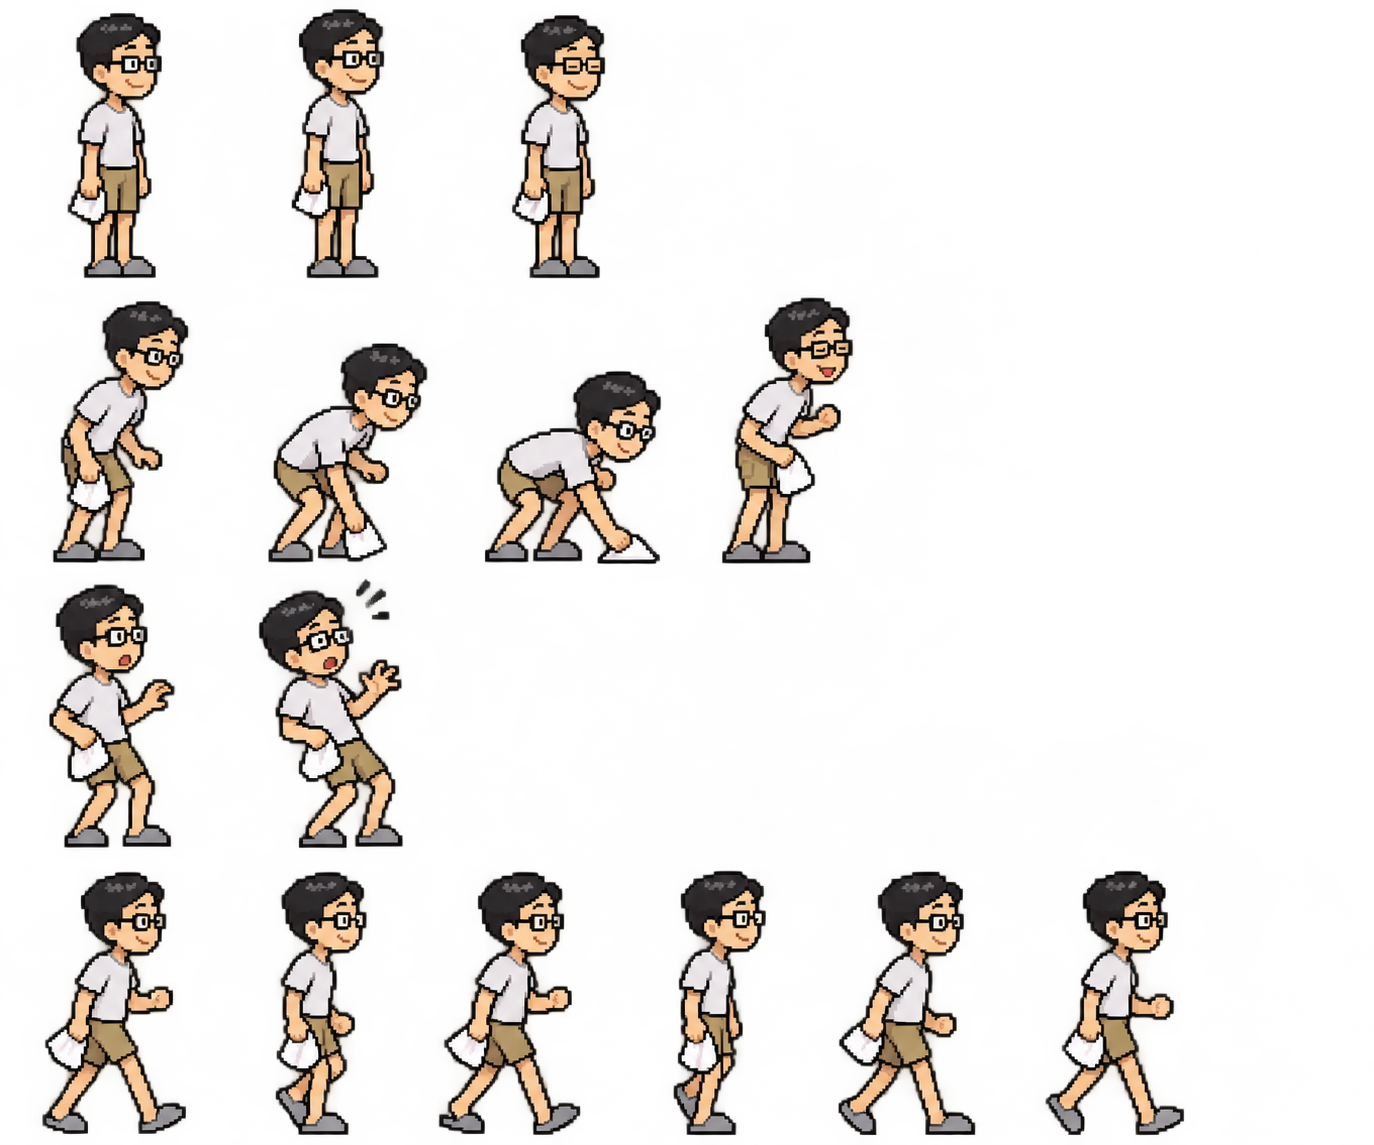
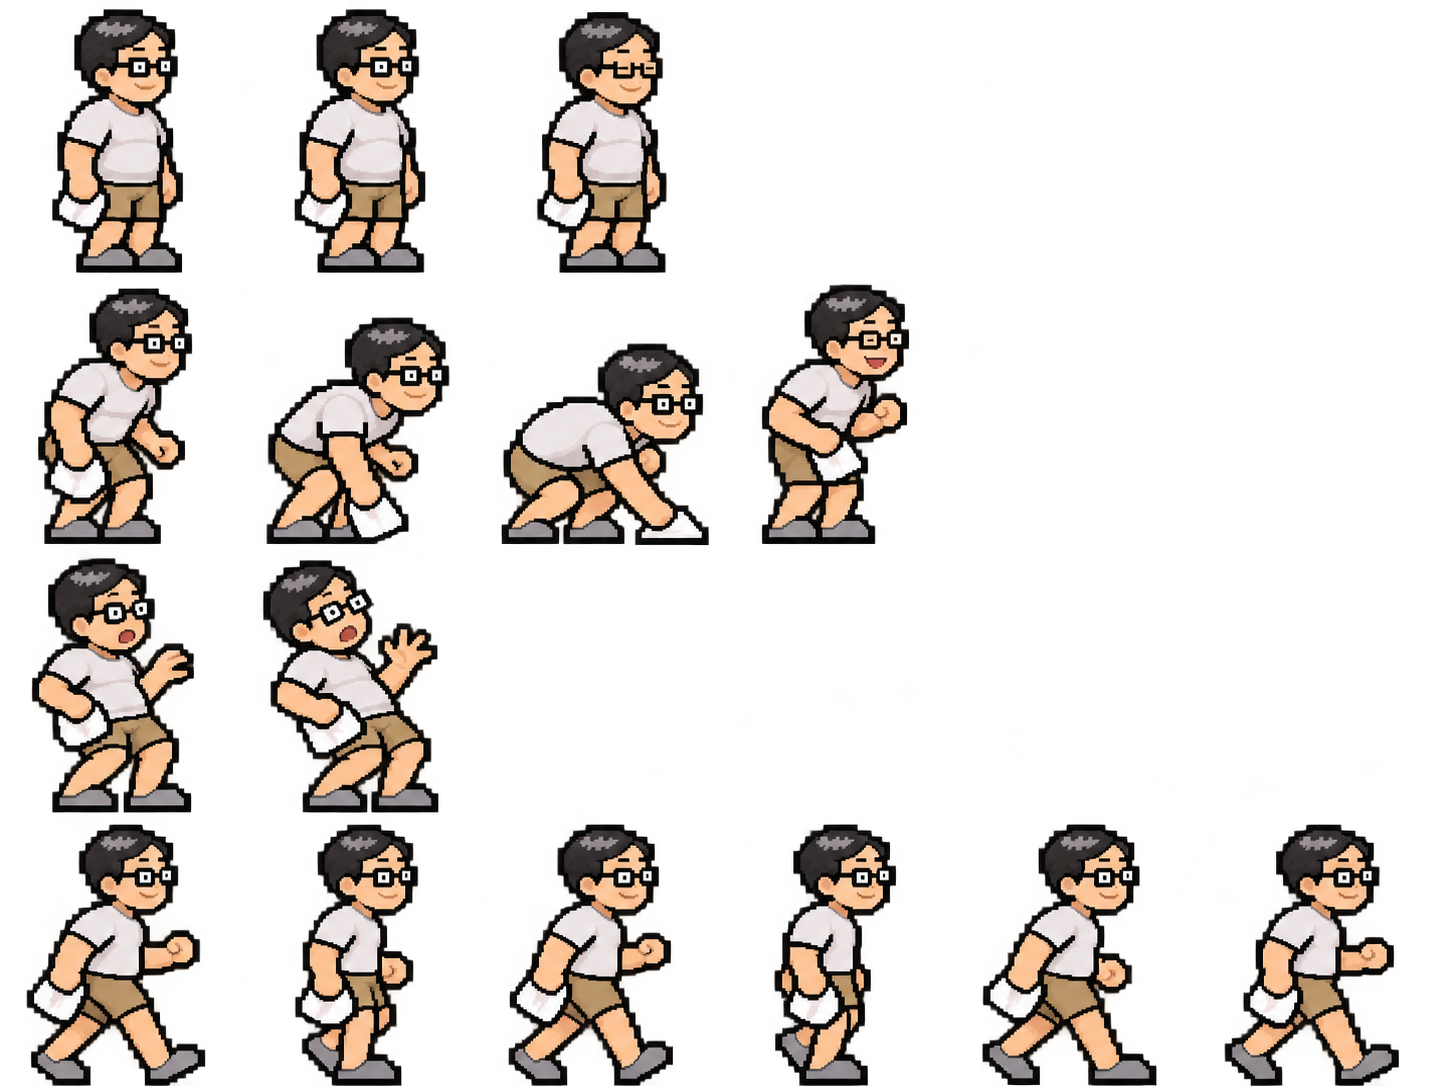
Save code to carry progress to another device; sturdier neighbour
- Settings shows a save code (MBS-XXXX-..., Crockford base32 with a
  15-bit checksum) holding coins, upgrades, totals and each best run's
  win / gap / time. Copy or share it, paste it on another phone or
  browser, tap twice to load. No server.
- The neighbour's sheet is redrawn with Codex from the first one:
  broader shoulders, thicker arms and legs (v1 kept in art/codex).

diff --git a/index.html b/index.html
@@ -133,6 +133,14 @@ button{font:inherit;color:inherit}
 .stage .meta{display:block;margin-top:4px;font:600 11px/1.3 var(--f-pixel);color:var(--surf)}
 .items canvas{width:36px;height:36px;image-rendering:crisp-edges;image-rendering:pixelated}
 .credits{margin:14px 0 0;color:var(--sand-dim);font-size:12.5px;line-height:1.5}
+.save-code{padding:10px 12px;border-radius:10px;border:2px dashed var(--line);background:var(--night);color:var(--plumeria);font:700 17px/1.5 ui-monospace,Menlo,Consolas,monospace;letter-spacing:.02em;overflow-wrap:anywhere;-webkit-user-select:all;user-select:all}
+.field{display:block;margin:16px 0 6px;color:var(--sand);font-size:15px}
+.code-in{width:100%;min-height:46px;padding:8px 12px;border-radius:10px;border:2px solid var(--line);background:var(--ink);color:var(--sand);font:700 16px/1.2 ui-monospace,Menlo,Consolas,monospace;text-transform:uppercase}
+.code-in:focus{outline:none;border-color:var(--plumeria)}
+.code-in::placeholder{color:var(--sand-dim);text-transform:none}
+.code-msg{margin:8px 0 0;min-height:1.4em;color:var(--sand);font-size:14px;line-height:1.45}
+.code-msg:empty{min-height:0;margin:0}
+.code-msg.bad{color:var(--hibiscus)}
 .heroes{display:grid;grid-template-columns:repeat(3,minmax(0,1fr));gap:8px;margin:14px 0 8px}
 .hero{display:grid;justify-items:center;align-content:start;gap:3px;padding:10px 8px 12px;border-radius:12px;border:2px solid var(--line);background:var(--night);text-align:center;cursor:pointer}
 .hero[aria-pressed="true"]{border-color:var(--plumeria);box-shadow:inset 0 0 0 2px var(--plumeria)}
@@ -1939,6 +1947,82 @@ function migrateRecords() {
   store.set('mbs.records', { backyard: old });
 }
 
+// ---------- save code: wallet, upgrades, best runs and totals as one short text, to carry progress to another phone or
+// browser without a server (Settings). Crockford base32: no I L O U, any case, dashes / spaces / text around it ignored.
+// Bits: version 3 · coins · upgrade levels (fixed widths) · totals · per stage × hero: has-record, win, 틈, seconds.
+// A record's kills and level are left out to keep the code short. The lists below are frozen: add a new stage, hero
+// or upgrade at the END of its list (each list is stored with its length, so old codes keep working).
+const SAVE_UP = [['hp', 3], ['might', 3], ['armor', 2], ['regen', 2], ['speed', 2], ['magnet', 2], ['cdr', 2], ['growth', 2],
+  ['greed', 2], ['revive', 1], ['reroll', 2], ['skip', 2], ['banish', 2]];
+const SAVE_STAGES = ['backyard', 'laundry', 'kitchen'], SAVE_HEROES = ['girl', 'alpaca', 'gecko'];
+const B32 = '0123456789ABCDEFGHJKMNPQRSTVWXYZ', SAVE_CHECK = 15;
+// a fixed bit stream XORed over the payload so an empty save doesn't read 0000…
+function saveMask(n) { const m = []; let x = 0x6d627321; for (let i = 0; i < n; i++) { x = (Math.imul(x, 1103515245) + 12345) >>> 0; m.push(x >>> 31); } return m; }
+function saveSum(bits) { let h = 0x811c9dc5; for (const b of bits) h = Math.imul(h ^ (b + 7), 16777619) >>> 0; return (h ^ (h >>> 16)) & ((1 << SAVE_CHECK) - 1); }
+function saveCode() {
+  const w = [], put = (v, n) => { for (let i = n - 1; i >= 0; i--) w.push(Math.floor(v / 2 ** i) % 2); };
+  const num = v => { v = Math.max(0, Math.floor(v || 0)); do { const c = v % 16; v = Math.floor(v / 16); put(c, 4); put(v ? 1 : 0, 1); } while (v); };
+  const m = loadMeta(), rec = store.get('mbs.records') || {}, tot = store.get('mbs.stats') || {};
+  put(1, 3);
+  num(m.coins);
+  put(SAVE_UP.length, 5);
+  for (const [id, n] of SAVE_UP) put(Math.min(m.up[id] || 0, 2 ** n - 1), n);
+  num(tot.runs); num(tot.kills); num(tot.wins); num(tot.secs);
+  put(SAVE_STAGES.length, 4); put(SAVE_HEROES.length, 4);
+  for (const st of SAVE_STAGES) for (const h of SAVE_HEROES) {
+    const r = rec[st]?.[h];
+    put(r ? 1 : 0, 1);
+    if (r) { put(r.win ? 1 : 0, 1); put(Math.min(r.gap || 0, 7), 3); put(Math.min(Math.floor(r.t), 1023), 10); }
+  }
+  while (w.length % 5) w.push(0);
+  const mask = saveMask(w.length), sum = saveSum(w), all = w.map((b, i) => b ^ mask[i]);
+  for (let i = SAVE_CHECK - 1; i >= 0; i--) all.push((sum >> i) & 1);   // checksum of the plain payload, unmasked
+  let s = '';
+  for (let i = 0; i < all.length; i += 5) s += B32[all[i] * 16 + all[i + 1] * 8 + all[i + 2] * 4 + all[i + 3] * 2 + all[i + 4]];
+  return 'MBS-' + s.match(/.{1,4}/g).join('-');
+}
+// returns { meta, records, stats } or null when the text isn't a valid code
+function readSaveCode(text) {
+  const hit = String(text || '').toUpperCase().match(/MBS[\s-]*([0-9A-Z][0-9A-Z\s-]*)/);
+  const raw = (hit ? hit[1] : String(text || '').toUpperCase()).replace(/[\s-]/g, '').replace(/O/g, '0').replace(/[IL]/g, '1');
+  if (raw.length < 8 || /[^0-9A-Z]/.test(raw)) return null;
+  const all = [];
+  for (const ch of raw) { const v = B32.indexOf(ch); if (v < 0) return null; for (let i = 4; i >= 0; i--) all.push((v >> i) & 1); }
+  const n = all.length - SAVE_CHECK, mask = saveMask(n), bits = all.slice(0, n).map((b, i) => b ^ mask[i]);
+  let sum = 0; for (const b of all.slice(n)) sum = sum * 2 + b;
+  if (saveSum(bits) !== sum) return null;
+  let at = 0;
+  const get = k => { if (at + k > n) throw 0; let v = 0; for (let i = 0; i < k; i++) v = v * 2 + bits[at++]; return v; };
+  const num = () => { let v = 0, p = 1, more; do { v += get(4) * p; p *= 16; more = get(1); } while (more && p < 2 ** 40); return v; };
+  try {
+    if (get(3) !== 1) return null;
+    const meta = { coins: num(), up: {}, earned: 0 };
+    const nUp = get(5);
+    for (let i = 0; i < nUp; i++) {
+      const [id, k] = SAVE_UP[i] || [null, 3], lv = get(k);
+      if (id && UPGRADES[id] && lv) meta.up[id] = Math.min(lv, UPGRADES[id].max);
+    }
+    const stats = { runs: num(), kills: num(), wins: num(), secs: num() };
+    const nSt = get(4), nH = get(4), records = {};
+    for (let i = 0; i < nSt; i++) for (let j = 0; j < nH; j++) {
+      if (!get(1)) continue;
+      const r = { win: !!get(1), gap: get(3), t: get(10) }, st = SAVE_STAGES[i], h = SAVE_HEROES[j];
+      if (st && h) (records[st] || (records[st] = {}))[h] = r;
+    }
+    let spent = 0;
+    for (const [id, lv] of Object.entries(meta.up)) for (let i = 0; i < lv; i++) spent += upPrice(id, i);
+    meta.earned = meta.coins + spent;
+    return { meta, records, stats };
+  } catch { return null; }
+}
+function applySave(d) {
+  store.set('mbs.meta', d.meta); store.set('mbs.records', d.records); store.set('mbs.stats', d.stats);
+  try { localStorage.removeItem('mbs.best'); } catch { /* blocked */ }
+  gapSel = Math.min(gapSel, gapOpen());
+  if (!stageOpen(stageSel)) stageSel = 'backyard';
+  remember();
+}
+
 /* =====================================================================
    RENDER
    ===================================================================== */
@@ -2463,7 +2547,7 @@ function showRecords() {
   const stages = Object.entries(STAGES).filter(([, st]) => st.ready).map(([id, st]) => `<h3>${st.name}</h3><ul class="items">${Object.entries(HEROES).map(([h, hd]) => {
     const r = (rec[id] || {})[h];
     return `<li><canvas width="64" height="64" data-preview="${h}" data-still="1"></canvas><span class="n"><b>${hd.name}</b>${r?.win ? ' <span class="tag gold">클리어</span>' : ''}
-      <small>${r ? `${fmtTime(r.t)} 버팀 · 벌레 ${r.kills} · Lv ${r.lvl}${r.gap ? ` · 틈 ${r.gap}` : ''}` : '아직 기록이 없어요'}</small></span><span class="v">${bestText(r)}</span></li>`;
+      <small>${r ? `${fmtTime(r.t)} 버팀${r.kills != null ? ` · 벌레 ${r.kills}` : ''}${r.lvl ? ` · Lv ${r.lvl}` : ''}${r.gap ? ` · 틈 ${r.gap}` : ''}` : '아직 기록이 없어요'}</small></span><span class="v">${bestText(r)}</span></li>`;
   }).join('')}</ul>`).join('');
   openMenu(`<div class="panel"><h2>기록</h2>
     <div class="stats"><div><b>${tot.runs}</b>판</div><div><b>${tot.kills.toLocaleString()}</b>잡은 벌레</div><div><b>${tot.wins}</b>클리어</div></div>
@@ -2522,14 +2606,63 @@ function gapHTML() {
     </div>${lock}</div>`;
 }
 
-let wipeArmed = false;
+let wipeArmed = false, loadArmed = null;
 function showSettings() {
-  wipeArmed = false;
+  wipeArmed = false; loadArmed = null;
   openMenu(`<div class="panel"><h2>설정</h2><p class="sub">소리는 이 기기에만 저장돼요. 아이폰은 무음 모드면 소리가 안 나요.</p>
     ${soundToggleHTML()}
+    <h3>세이브 코드</h3>
+    <p class="sub">동전·강화·기록은 이 기기의 이 브라우저에만 저장돼요. 아래 코드를 다른 폰이나 브라우저에서 불러오면 그대로 이어져요. 카톡으로 보내 두면 백업도 돼요. (아이폰은 사파리에서 「홈 화면에 추가」로 깔아 두면 안 지워져요.)</p>
+    <div class="save-code" id="saveCode">${saveCode()}</div>
+    <div class="row"><button class="btn ghost" type="button" data-act="copyCode" id="copyBtn">코드 복사</button>${navigator.share ? '<button class="btn ghost" type="button" data-act="shareCode">보내기</button>' : ''}</div>
+    <label class="field" for="codeIn">받은 코드 불러오기</label>
+    <input id="codeIn" class="code-in" type="text" inputmode="text" autocomplete="off" autocorrect="off" autocapitalize="characters" spellcheck="false" placeholder="MBS-…">
+    <p class="code-msg" id="codeMsg" aria-live="polite"></p>
+    <div class="row"><button class="btn ghost" type="button" data-act="loadCode" id="loadBtn">불러오기</button></div>
+    <h3>처음부터</h3>
     <div class="row"><button class="btn ghost" type="button" data-act="wipe" id="wipeBtn">기록·동전 지우기</button></div>
     <p class="credits">캐릭터와 카드 그림은 카드 게임 「마노아 벌레 퇴치단」에서 왔고, 새 그림은 PixelLab과 Codex로 그렸어요. 소리는 전부 코드로 만든 칩튠이에요.</p>
     <div class="row"><button class="btn" type="button" data-act="toMain">뒤로</button></div></div>`);
+}
+function copyCode() {
+  const box = $('saveCode'), btn = $('copyBtn'), code = box.textContent;
+  const done = ok => {
+    btn.textContent = ok ? '복사했어요!' : '코드를 길게 눌러 복사해 주세요';
+    if (!ok) getSelection()?.selectAllChildren(box);
+    setTimeout(() => { if (btn.isConnected) btn.textContent = '코드 복사'; }, 1800);
+  };
+  // the artifact frame may block the clipboard API: fall back to selecting the text and execCommand
+  const legacy = () => { try { getSelection().selectAllChildren(box); return document.execCommand('copy'); } catch { return false; } };
+  if (navigator.clipboard?.writeText) navigator.clipboard.writeText(code).then(() => done(true), () => done(legacy()));
+  else done(legacy());
+}
+// first tap reads the code and says what it holds, the second overwrites this device's progress with it
+function loadCode() {
+  const text = $('codeIn').value, msg = $('codeMsg'), btn = $('loadBtn');
+  const d = readSaveCode(text);
+  if (!d) {
+    loadArmed = null; btn.textContent = '불러오기'; btn.classList.remove('warn');
+    msg.className = 'code-msg bad';
+    msg.textContent = text.trim() ? '코드가 맞지 않아요. 빠지거나 바뀐 글자가 없는지 봐 주세요.' : '받은 코드를 위 칸에 붙여 넣어 주세요.';
+    return;
+  }
+  const key = JSON.stringify(d);
+  if (loadArmed !== key) {
+    if (readSaveCode(saveCode()) && JSON.stringify(readSaveCode(saveCode())) === key) {
+      msg.className = 'code-msg'; msg.textContent = '이 기기와 똑같은 진행이에요. 불러올 게 없어요.'; return;
+    }
+    loadArmed = key;
+    const lv = Object.values(d.meta.up).reduce((a, b) => a + b, 0);
+    const recs = Object.values(d.records).reduce((a, st) => a + Object.keys(st).length, 0);
+    const wins = Object.values(d.records).reduce((a, st) => a + Object.values(st).filter(r => r.win).length, 0);
+    msg.className = 'code-msg';
+    msg.innerHTML = `${COIN}${d.meta.coins.toLocaleString()} · 강화 ${lv}칸 · 기록 ${recs}개${wins ? ` (클리어 ${wins})` : ''} · ${d.stats.runs}판<br>이 기기의 지금 진행은 지워지고 이걸로 바뀌어요.`;
+    btn.textContent = '한 번 더 누르면 불러와요'; btn.classList.add('warn');
+    return;
+  }
+  applySave(d);
+  showSettings();
+  banner('불러왔어요!', '이어서 하면 돼요');
 }
 function heroInfo(id) {
   const h = HEROES[id];
@@ -2610,7 +2743,9 @@ function act(name, data) {
       try { localStorage.removeItem('mbs.best'); } catch { /* blocked */ }
       showSettings(); banner('기록을 지웠어요');
     }
-  }
+  } else if (name === 'copyCode') copyCode();
+  else if (name === 'shareCode') navigator.share?.({ title: '마노아 벌레 서바이버 세이브 코드', text: `마노아 벌레 서바이버 세이브 코드\n${saveCode()}` }).catch(() => {});
+  else if (name === 'loadCode') loadCode();
   else if (name === 'pick') {
     const c = choices[+data.i];
     if (banishing) {
@@ -2683,8 +2818,13 @@ function bindInput() {
     const b = e.target.closest('[data-act]');
     if (b && !b.disabled) act(b.dataset.act, b.dataset);
   });
+  els.menu.addEventListener('input', e => {        // editing the code after the first tap asks again
+    if (e.target.id !== 'codeIn') return;
+    loadArmed = null; $('loadBtn').textContent = '불러오기'; $('loadBtn').classList.remove('warn'); $('codeMsg').textContent = '';
+  });
   els.pauseBtn.addEventListener('click', showPause);
   addEventListener('keydown', e => {
+    if (e.target.closest?.('input, textarea')) return;      // typing a save code
     if (e.code === 'Escape' || e.code === 'KeyP') {
       if (S?.phase === 'play') showPause(); else if (S?.phase === 'paused') act('resume');
       return;
@@ -2761,6 +2901,7 @@ window.__mbs = {
   DEBUG, get S() { return S; },
   give(id) { applyChoice({ kind: WEAPONS[id] ? 'weapon' : 'passive', id }); },
   chest() { S.chests++; },
+  saveCode, readSaveCode, applySave,
   audio: { AUDIO, MUS, SONGS, SFX, MIX, playStep, compileSong, pulseWave },
   start(hero, stage = 'backyard', gap = 0) { startRun(hero, stage, gap); },
   freeze(t) { demoT = t; DEBUG.still = true; },

diff --git a/README.md b/README.md
@@ -14,6 +14,7 @@
 - 소리: 타이틀·전투·보스 배경음과 효과음 (전부 코드로 합성한 칩튠). 타이틀이나 일시정지 화면에서 효과음·배경음을 따로 끌 수 있다. 아이폰은 무음 모드면 소리가 안 난다.
   - **우리 집 부엌** (아무 스테이지에서 5분 버티면 열림): 밥솥·쓰레기통·쌀 포대·김치통은 지나갈 수 없다. 개미·초파리 떼·깃대벌(빠르게 날아와서 질색이지만 사실 익충), 줄지어 지나가는 개미 행렬, 5분 대왕 깃대벌, 10분 여왕개미 (삼만 개미 행렬을 이끌고 온다. 여왕을 잡으면 행렬이 흩어진다).
 - **동전과 상점**: 벌레가 가끔 동전을 떨어뜨리고, 엘리트·보스·보물 상자는 한 움큼 준다. 판이 끝나면 (져도) 버틴 시간만큼 보너스를 얹어 지갑에 모인다. 메인 화면 상점에서 최대 체력·힘·이동 속도 같은 영구 강화와 레벨 업 도우미(다시 뽑기·건너뛰기·빼 버리기), "한 번 더"(부활)를 산다. 언제든 전부 되돌려 받을 수 있다.
+- **세이브 코드**: 진행(동전·강화·기록)은 그 기기의 그 브라우저에만 저장된다 (쿠키가 아니라 브라우저 저장소). 설정의 세이브 코드(`MBS-…`)를 복사해서 다른 폰이나 브라우저의 [불러오기]에 붙여 넣으면 그대로 이어진다. 카톡으로 보내 두면 백업도 된다. 아이폰 사파리는 7일 넘게 안 들어가면 저장소를 지울 수 있으니 「홈 화면에 추가」로 깔아 두는 게 좋다.
 - **틈 (하드 모드)**: 낡은 집이라 어디에 틈이 있는지 모른다. 스테이지 화면에서 틈 단계(0~5)를 고르면 벌레가 더 많이, 더 세게 나오고 동전도 더 준다. 아무 스테이지나 틈 N에서 깨면 틈 N+1이 열린다.
 - **옆집 아저씨**: 체력이 바닥나면 (1분 뒤부터, 한 판에 한 번) "어이~" 하고 달려와서 키친타올로 벌레를 슥슥 훔쳐 간다. 작은 벌레는 키친타올 속으로 사라지고, 엘리트는 한 대 맞고, 보스는 못 본 척. 몇 초 뒤 집으로 돌아간다.
 - 게코는 체력이 적고 빠르다. 혀로 잡아먹으면 체력이 조금 차고, 한 번은 꼬리를 떼어 주고 살아난다 (그동안 벌레들은 꼬리를 쫓아간다).
@@ -77,5 +78,6 @@ scripts/build-artifact.sh   # → dist/artifact.html
 - [x] 메인 화면: 행진 애니메이션, 캐릭터 → 스테이지 고르기, 기록, 설정
 - [x] 두 번째 스테이지: 우리 집 세탁실 — 장애물, 새 벌레 5종(코덱스 그림), 세탁실 배경음
 - [x] 판이 끝나면 쌓이는 보상: 동전, 상점(영구 강화 13종), 레벨 업 도우미, 틈 단계(하드 모드 0~5)
-- [x] 옆집 아저씨 카메오 (키친타올, 한 판에 한 번 구조)
+- [x] 옆집 아저씨 카메오 (키친타올, 한 판에 한 번 구조). 너무 말라 보여서 조금 더 듬직하게 다시 그림
+- [x] 세이브 코드: 서버 없이 다른 기기로 진행 옮기기
 - [x] 세 번째 스테이지: 우리 집 부엌 — 개미 행렬, 초파리, 깃대벌, 여왕개미, 부엌 배경음, 새 무기 3 (전기파리채·풋샴푸·물통)과 아이템 2 (젓가락·건전지), 그림은 Codex

diff --git a/CLAUDE.md b/CLAUDE.md
@@ -11,6 +11,7 @@ All code lives in `index.html` (vanilla HTML/CSS/JS, no build, no framework); pi
 - Run state `S` is plain JSON (no `Infinity`, no class instances) so the artifact's hot-reload snapshot can hand it back; a restored run opens paused. Derived player stats live in `ST` (`recalc()`); the spatial grid and baked art live outside `S`.
 - Two overlay layers: `#menu` holds the screens outside a run (`showMain` / `showHeroes` / `showStages` / `showShop` / `showRecords` / `showSettings`; the main screen's background parade is `drawParade`), `#modal` holds the in-run panels (level up, chest, pause, results). Both route `data-act` buttons through `act()`. Last picked hero, stage and 틈 level: localStorage `mbs.last`; records: `mbs.records[stage][hero]` (best run, ranked by `better()`: a win, then a higher 틈 win, then longer survival) and `mbs.stats` (totals), written by `saveRecord()`; the old per-hero `mbs.best` is folded in by `migrateRecords()`.
 - Meta progression: coins drop from bugs (`DROPS.coin`), elites/bosses and chests (`COINS`), plus a per-minute / clear bonus at the end; `bankCoins()` moves them into localStorage `mbs.meta` (`{ coins, up, earned }`) at the end, on quit and whenever the page is hidden (`S.banked` counts what's already in). The shop sells `UPGRADES` (`price = cost × next level`); a run copies them into `S.up` at the start and `recalc()` applies them. `reroll` / `skip` / `banish` become per-run counters shown under the level-up choices (`drawLevelUp`); `revive` is a second life after the gecko's tail.
+- Save code (Settings): `saveCode()` packs `mbs.meta` coins and upgrade levels, `mbs.stats` and each record's win / 틈 / seconds into a Crockford base32 string (`MBS-XXXX-…`, ~25 characters fresh, ~60 with everything maxed) with a 15-bit checksum; `readSaveCode()` finds the code inside pasted text and validates it, `applySave()` overwrites this device's progress (two taps in the UI). No server. Records' kills and level are left out to keep it short, so `showRecords` hides them when missing. `SAVE_UP` / `SAVE_STAGES` / `SAVE_HEROES` are frozen orders: a new upgrade, stage or hero goes at the end of its list, or old codes decode wrong.
 - 틈 (hard mode): `S.gap` 0-5, picked on the stage screen. `gapMods(g)` scales wave size, spawn rate, enemy HP/damage/speed, swarm size, elites per event and coins; `ST.gap` holds it, and `gx(key)` ramps the bug-side numbers in from 40% to full over `GAP_RAMP` seconds (without it a slow hero died in 15 s at 틈 3). Level g+1 opens once any stage is cleared at g (`gapOpen()`, read from the records).
 - Obstacles (laundry, kitchen): each stage lists its `OBSTACLES` kinds in `obstacles`; they are placed per 300px chunk by `chunkObstacles` (hash, cached per run), gathered around the player into `OBS` each step. `unstick()` pushes a foot circle out of footprints (player after moving, walking bugs after `separate()`, spawns, gem and chest drops); flying bugs, bosses and projectiles ignore them. Props draw at `PROP_SCALE` 2 and join the depth sort.
 - Fixed 60 Hz simulation (`update`) apart from `render`. Enemies sit in a 32px spatial hash (`buildGrid` / `near`); `near()` reuses one array, so never nest calls to it.

diff --git a/sprites/README.md b/sprites/README.md
@@ -18,7 +18,7 @@ PixelLab and Codex output, one sheet per unit, unique frames only. Play order, c
 | `fruitFly.png` | 32 | idle 4 | Codex, sampled at half size |
 | `ensignWasp.png` | 64 | idle 4 | Codex, half size (깃대벌: Codex read "flag" literally and gave it a little flag) |
 | `ensignWaspBig.png` `antQueen.png` | 96 | idle 4 | Codex at full size: the 5:00 boss 대왕 깃대벌 (drawn at 1.3x) and the final boss 여왕개미 (1.5x) |
-| `uncle.png` | 96 | idle 3 / swipe 4 / startled 2 / walk 6 | Codex: 옆집 아저씨 (the rescue cameo), drawn at 1.15x so he stands taller than the girl |
+| `uncle.png` | 96 | idle 3 / swipe 4 / startled 2 / walk 6 | Codex: 옆집 아저씨 (the rescue cameo), drawn at 1.15x so he stands taller than the girl; v2 is the sturdier redraw (v1 kept as `art/codex/uncle/uncle_v1_sheet.png`) |
 | `mist.png` | 64x32 | | card game spray cloud, drawn rotated toward the target |
 | `icons/<id>.png` | 64x48 | | the card game's card art, reused as weapon / passive icons; `tongue`, `egg`, `musubi`, `sneakers`, `swatter`, `footShampoo`, `chopsticks`, `waterJug` are Codex |
 | `props/<key>.png` | ~16 | | Codex pickups: `heal` (pineapple), `magnet`, `chest`, `coin` (also the coin glyph in menus); laundry obstacles `washer`, `dryer`, `basket`, `bottle`, kitchen obstacles `riceCooker`, `trashCan`, `riceSack`, `kimchi` (drawn at 2x); `jug` (the water-jug trap, drawn at 1.5x); listed in `PROP_ART` |

diff --git a/art/CODEX.md b/art/CODEX.md
@@ -65,7 +65,7 @@ Save as ./out/<id>_sheet.png. When done, reply with only the file path.
 - `sprites/gecko.png`: idle 4 / attack 4 / hit 3 / walk 6 (`art/codex/gecko_sheet.*`)
 - Icons and pickups made in the same session: see `sprites/README.md`
 - Laundry bugs (silverfish, moth, termite, cane spider, termite queen) and laundry props (washer, dryer, basket, bottle): `art/codex/laundry/`
-- 옆집 아저씨 sheet (idle 3 / swipe 4 / startled 2 / walk 6, ~20x57 art pixels; Codex hit the asked size this time): `art/codex/uncle/`
+- 옆집 아저씨 sheet (idle 3 / swipe 4 / startled 2 / walk 6): `art/codex/uncle/`. v1 came out too skinny (~20x57 art pixels); v2 redrew it from v1 (attached as the first image, "keep face, hair, glasses, clothes, but broader shoulders, thicker arms and legs, a hint of a belly") and landed at ~28x56.
 - Kitchen bugs (fruit fly, ensign wasp, queen ant), props (rice cooker, trash can, rice sack, kimchi box), coin, water jug, and icons for the swatter, foot shampoo, chopsticks and water jug: `art/codex/kitchen/` (two sessions run side by side)
 
 Size drift: Codex often draws figures bigger than the art-pixel size asked for. Check the frame sizes `pixelize.py` prints; `--pitch` at twice the detected value halves a sheet (loses some 1px detail), or keep it full size in a bigger cell (`--cell 96 --base 93`).
